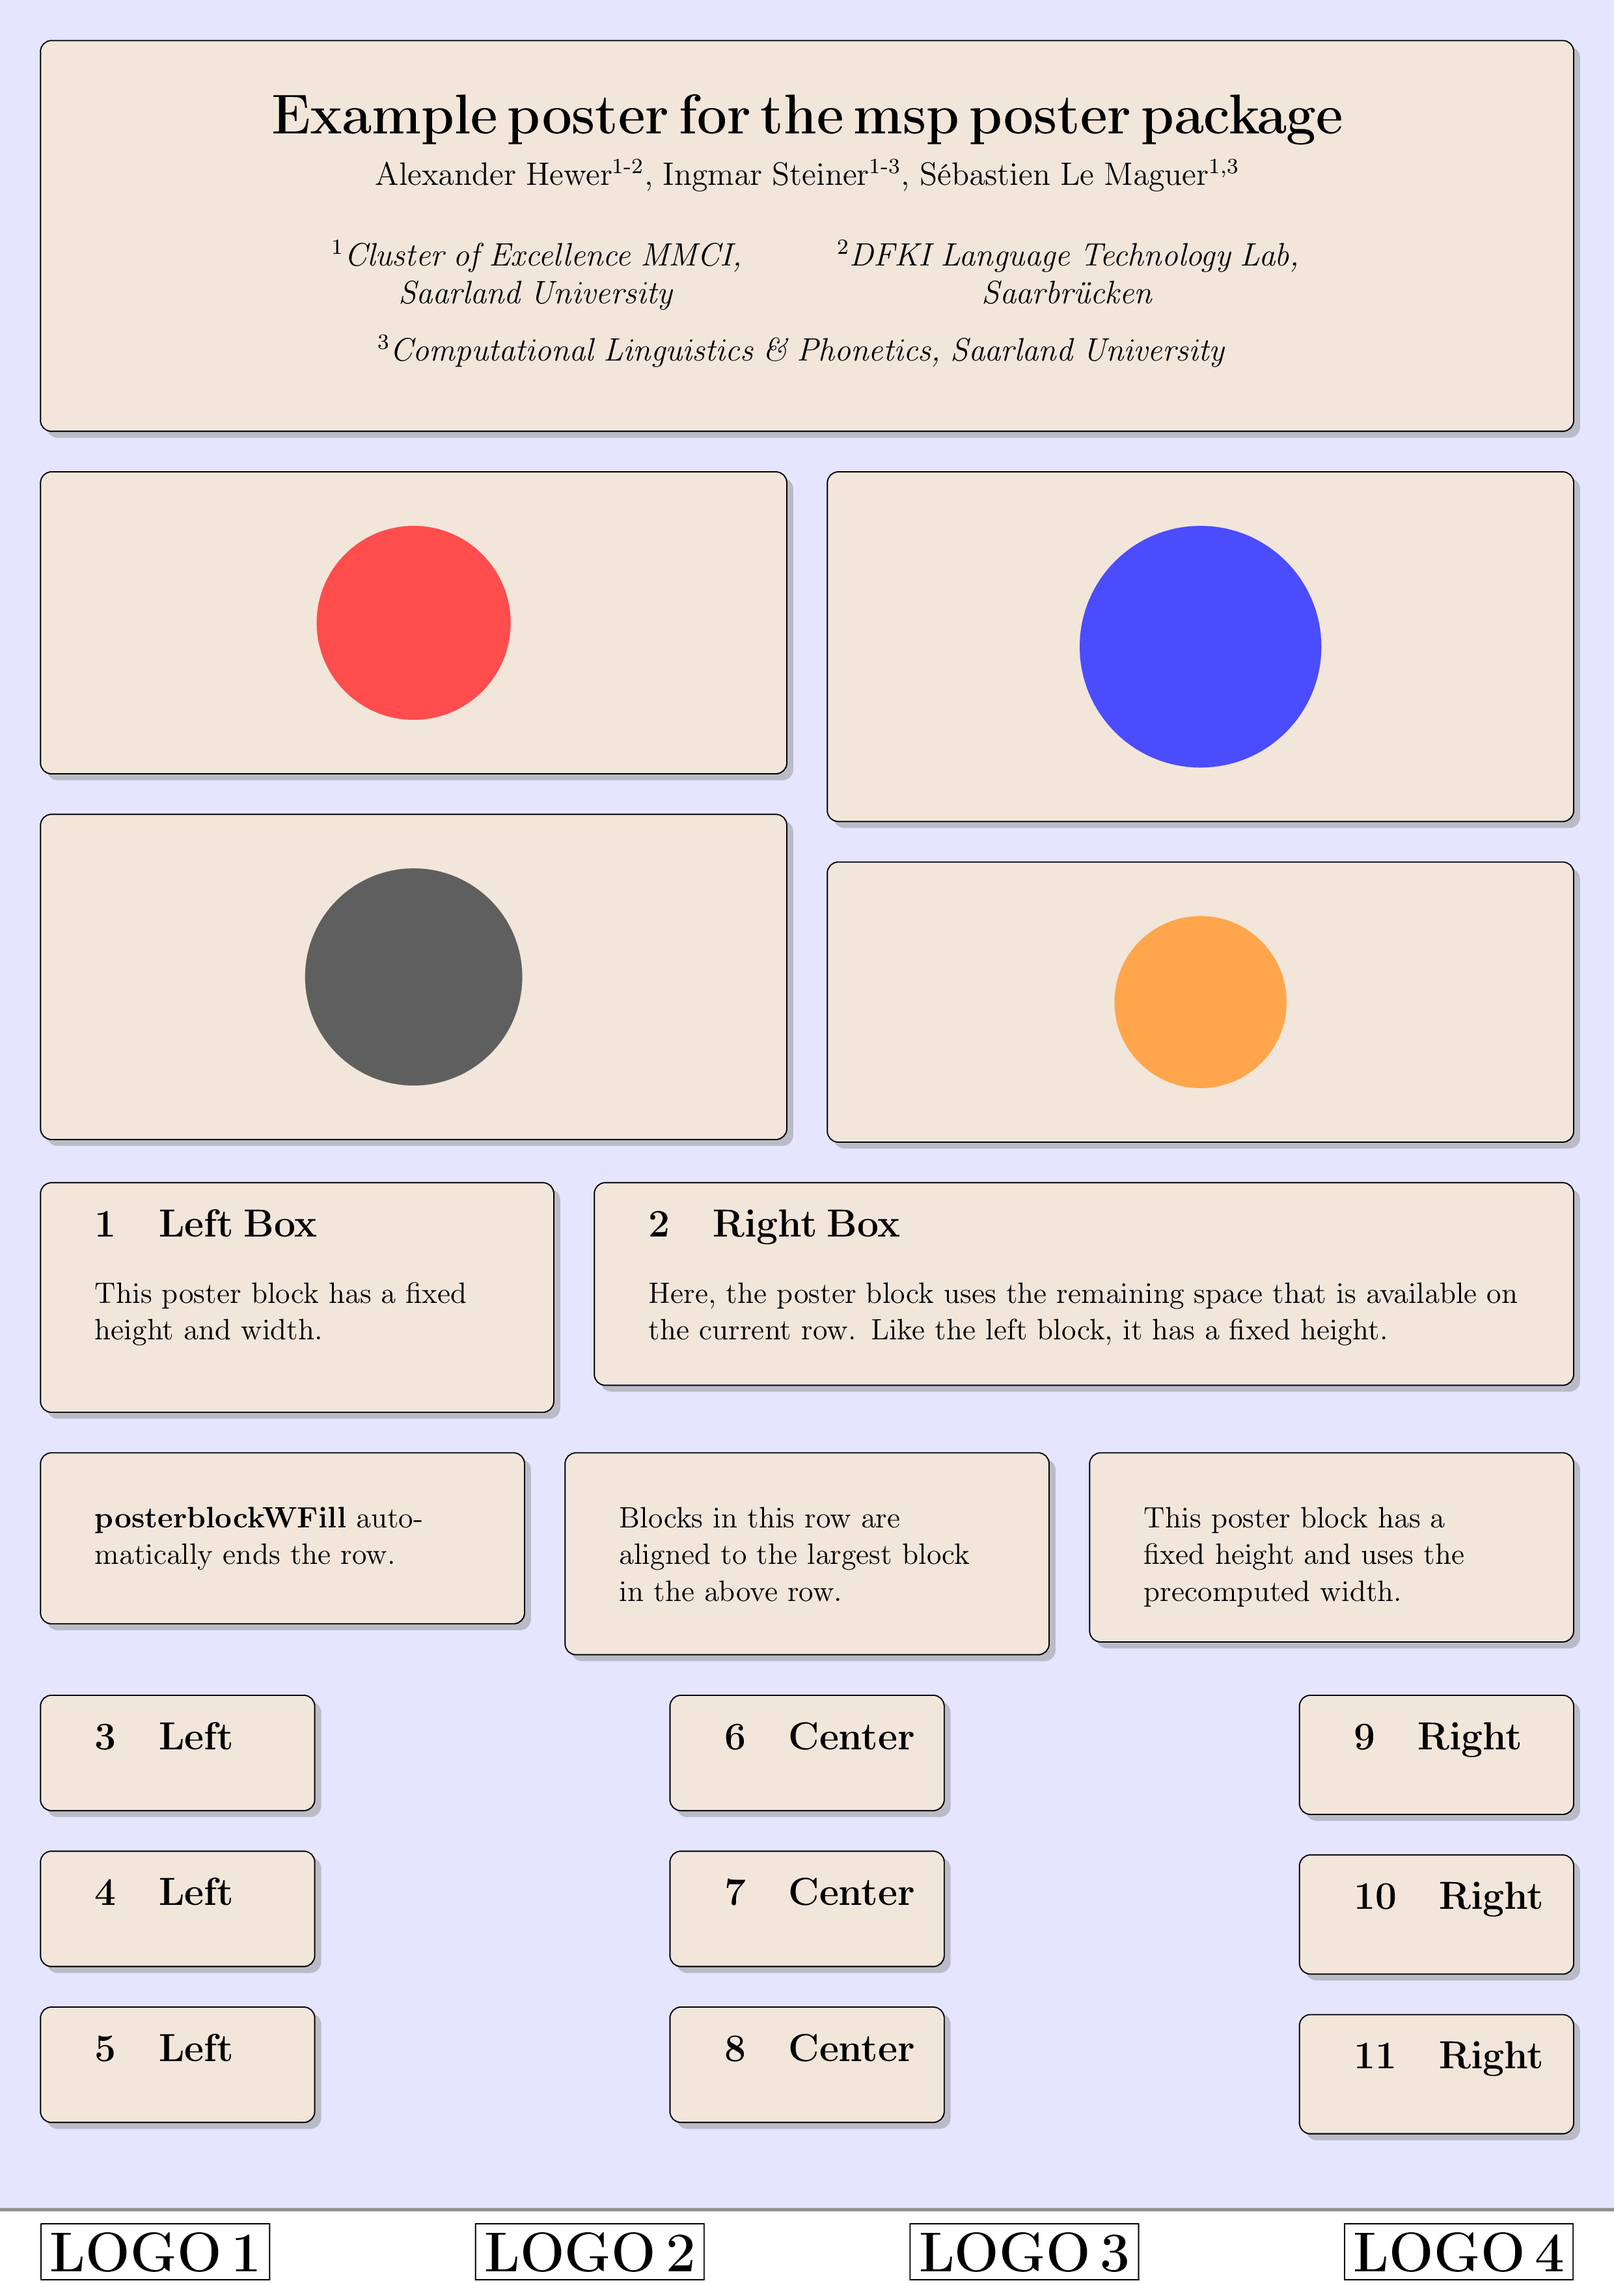
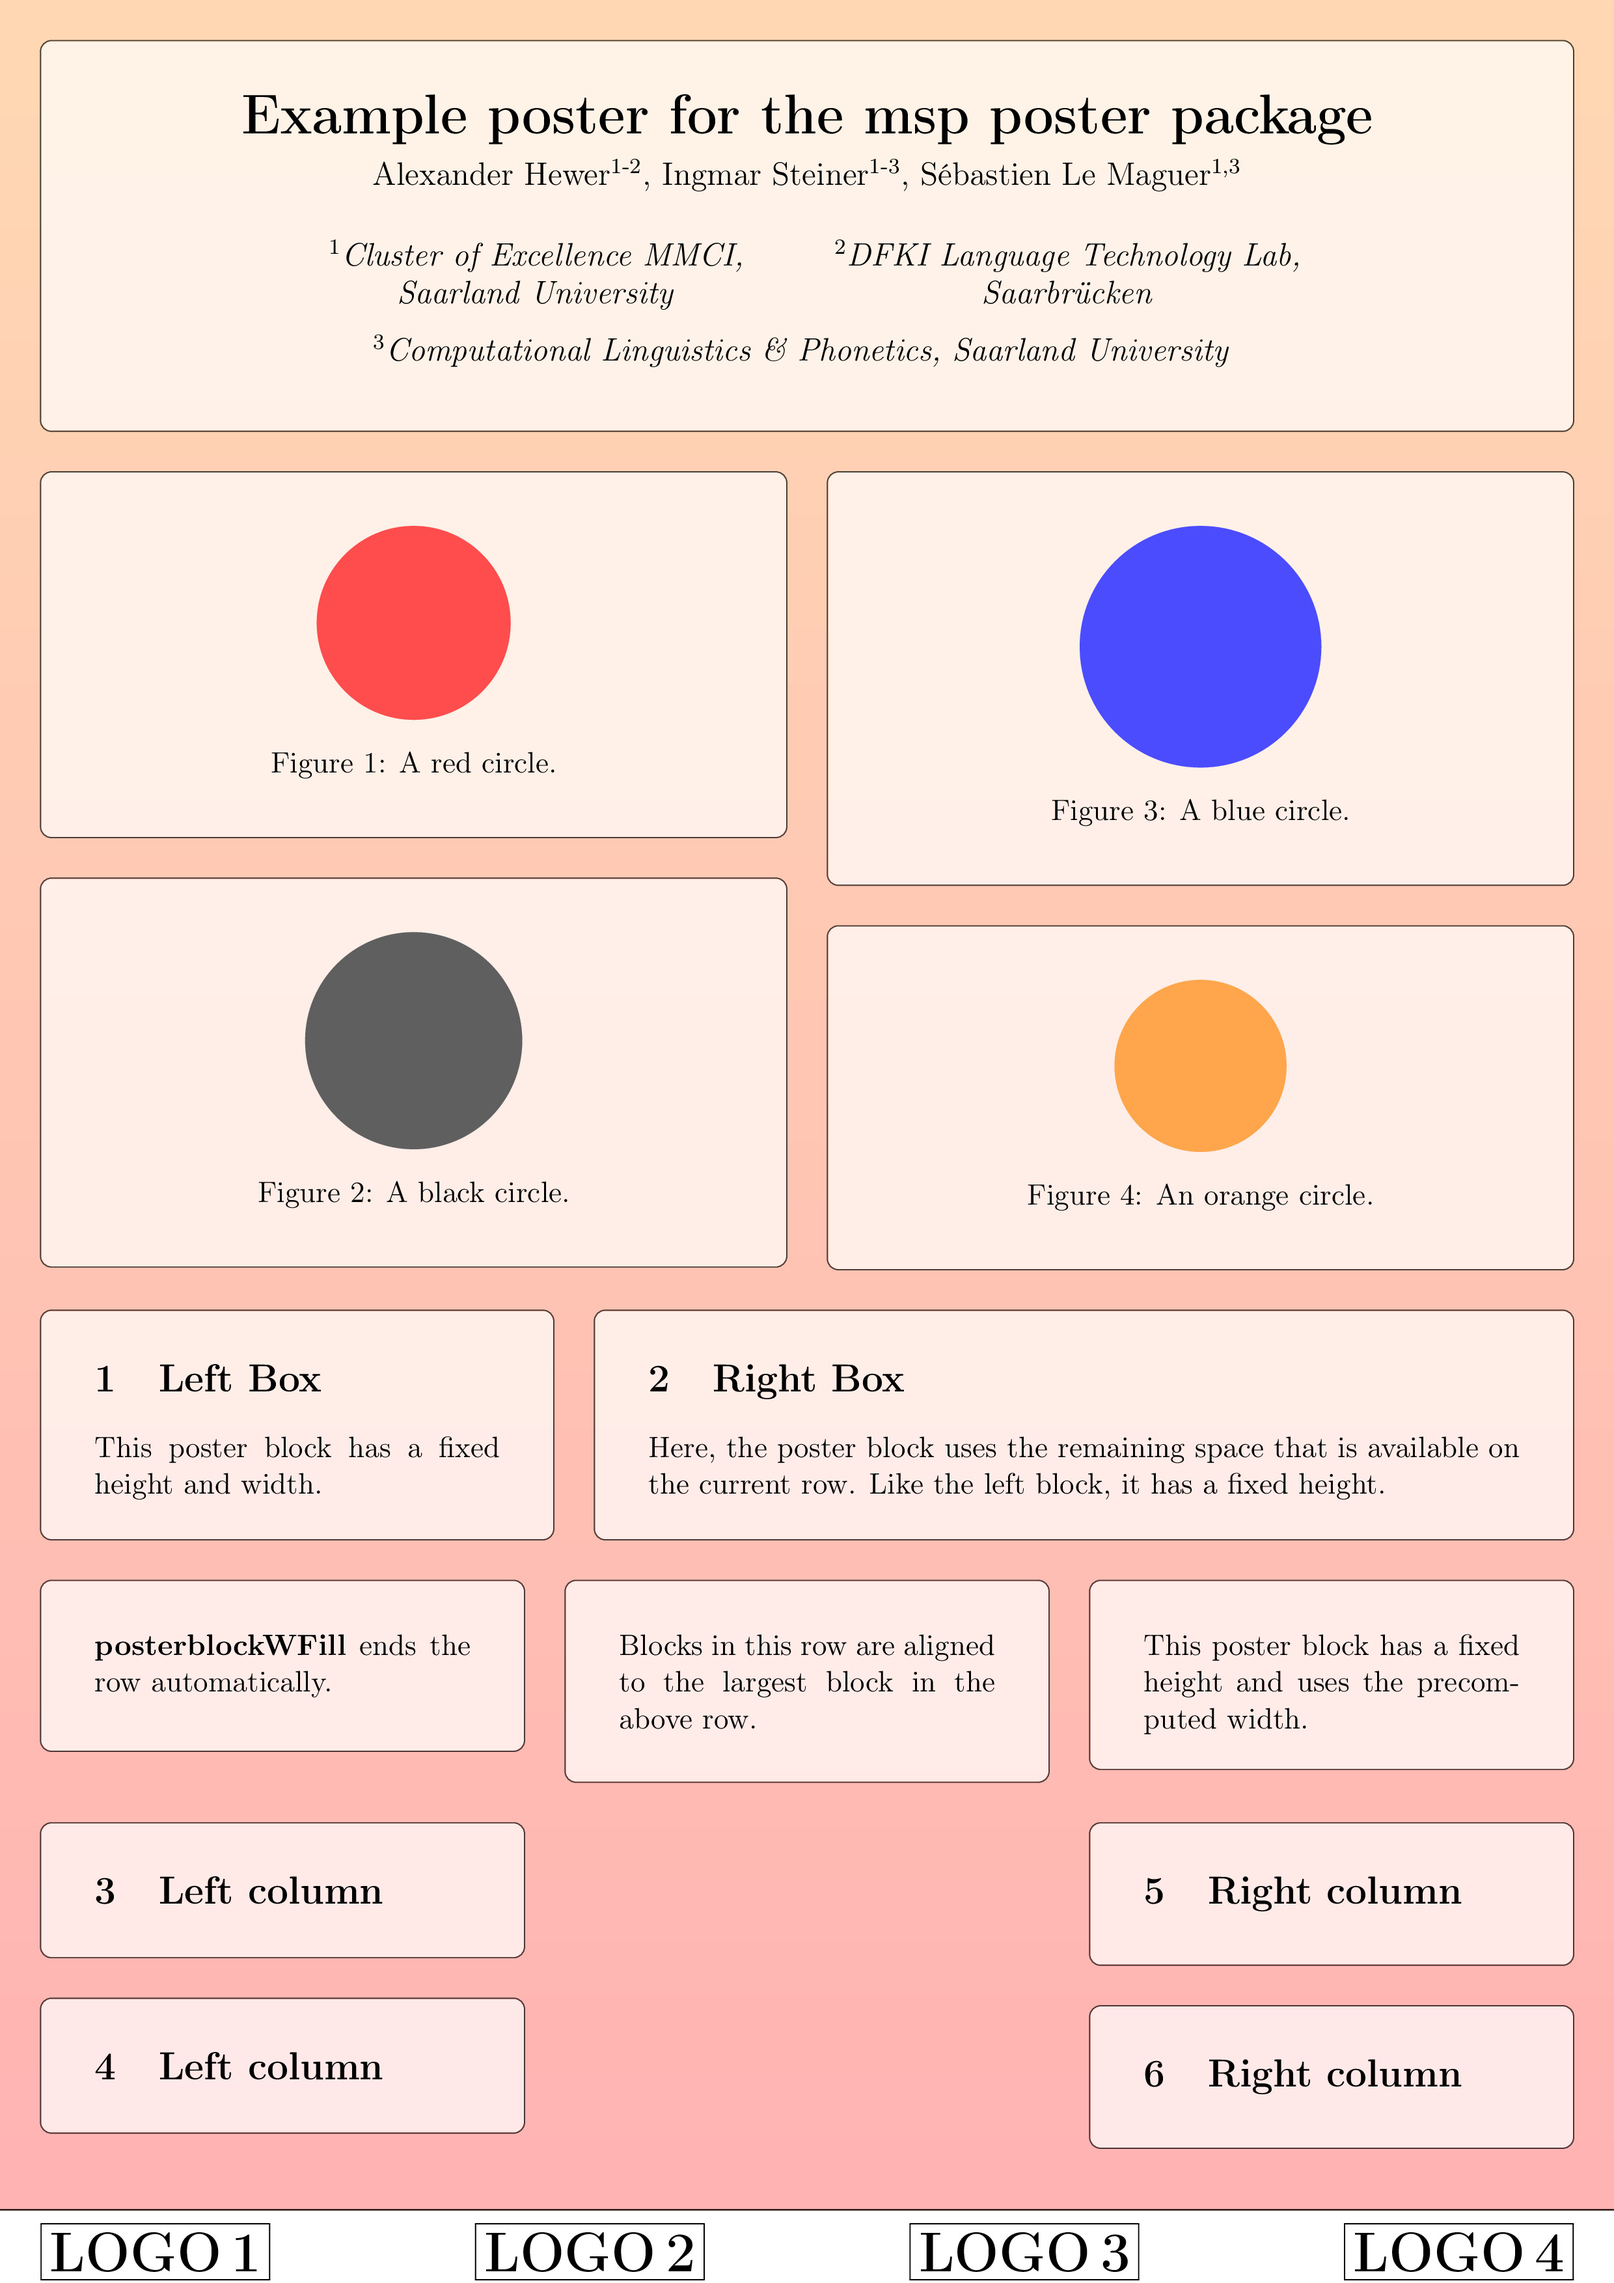
updated README.md and picture of example poster

diff --git a/README.md b/README.md
@@ -15,7 +15,7 @@ See [LICENSE.md] and [mspposter.sty] for more details.
 
 ## Using the package
 
-Copy the file 'mspposter.sty' to the same folder as your LaTeX file and add the line
+Copy the file 'mspposter.sty' and the directory 'themes' to the same folder as your LaTeX file and add the line
 
 ```latex
 \usepackage{mspposter}
@@ -202,43 +202,40 @@ Finally, the posterblock, posterblockH, posterblockW, posterblockWFill, and logo
 ### Poster themes
 
 Instead of adding your layout tweaks to your poster code, you can also place them inside an external __theme file__.
-To apply the theme to your poster, use the following command after you opened the poster environment:
+To apply the theme to your poster, use the optional parameter of the **poster** environment:
 
 ```latex
-\setpostertheme{T}
+\begin{poster}[T]
 ```
 
-where T is the path to the file containing the layout tweaks. **It is important that this command is
-inserted just after opening the poster environment**.
+where T is the path to the file containing the layout tweaks.
 
 Example file that represents the default theme applied when using [themes/default]:
 
 ```latex
 \tikzset{
   title/.style={
-    drop shadow,
-    draw=black,
-    opacity=1.0,
+    opacity=0.7,
     text opacity=1.0,
-    fill=brown!20,
-    rounded corners
+    fill=white,
+    thin,
+    rounded corners,
+    draw
   },
   posterblock/.style={
-    drop shadow,
-    draw=black,
-    opacity=1.0,
+    opacity=0.7,
     text opacity=1.0,
-    fill=brown!20,
-    rounded corners
+    fill=white,
+    thin,
+    rounded corners,
+    draw
   },
   logobar/.style={
-    % make the bar a little bit wider than the paper width,
-    % such that the left and right borders are not visible
     minimum width=\paperwidth + 10pt,
     text width=\textwidth,
+    draw,
+    thin,
     fill=white,
-    draw=black!50,
-    very thick,
     inner sep=5
   }
 }
@@ -247,7 +244,19 @@ Example file that represents the default theme applied when using [themes/defaul
 \setmargins{15}{15}
 \setblockpadding{20}
 \setblockspacing{15}
-\shadebackground{blue!10}{blue!10}
+\shadebackground{red!30}{orange!30}
+
+\makeatletter
+\renewcommand{\maketitle}{
+    \begin{posterblock}[title]
+        \begin{center}
+            {\huge{\bf{\@title}}} \\
+            \vspace{5pt}
+            {\large\@author}
+        \end{center}
+    \end{posterblock}
+}
+\makeatother
 ```
 
 ## Limitations
@@ -270,7 +279,6 @@ Example file that represents the default theme applied when using [themes/defaul
 Example poster file:
 
 ```latex
-
 \documentclass[a4paper, 11pt]{article}
 
 \usepackage{mspposter}
@@ -278,155 +286,139 @@ Example poster file:
 \usepackage[utf8]{inputenc}
 \usepackage[T1]{fontenc}
 
+\usepackage{caption}
 \usepackage{tabularx}
 \usepackage{multicol}
+
 \newcolumntype{C}[1]{>{\centering\arraybackslash}p{#1}}
 
 \title{Example poster for the msp poster package}
 \author{
-    Alexander Hewer\textsuperscript{1-2}, Ingmar Steiner\textsuperscript{1-3}, Sébastien Le Maguer\textsuperscript{1,3}                                       \\
-    \vspace{12pt}
-    {\def\arraystretch{1.5}
+  Alexander Hewer\textsuperscript{1-2},
+  Ingmar Steiner\textsuperscript{1-3},
+  Sébastien Le Maguer\textsuperscript{1,3}\\
+  \vspace{12pt}
+  {%
+    \def\arraystretch{1.5}
     \begin{tabular}{C{0.35\textwidth} C{0.35\textwidth}}
-      \textsuperscript{1}\textit{Cluster of Excellence MMCI, Saarland University} & \textsuperscript{2}\textit{DFKI Language Technology Lab, Saarbr\"{u}cken} \\
-      \multicolumn{2}{c}{\textsuperscript{3}\textit{Computational Linguistics \& Phonetics, Saarland University}}                                                  \\
+      \textsuperscript{1}\textit{Cluster of Excellence MMCI, Saarland University} &
+      \textsuperscript{2}\textit{DFKI Language Technology Lab, Saarbr\"{u}cken} \\
+      \multicolumn{2}{c}{\textsuperscript{3}%
+        \textit{Computational Linguistics \& Phonetics, Saarland University}} \\
     \end{tabular}
-    }
+  }
 }
-
-% reduce the vertical space generated by a section
-\let \oldsection \section
-\renewcommand{\section}{\vspace{-10pt}\oldsection}
 
 \begin{document}
 
-\begin{poster}
+\begin{poster}[themes/tholey]
 
-    % Set themes
-    \setpostertheme{themes/default}
+  \maketitle
 
-    \maketitle
+  \begin{postercolumns}[2]
 
-    \begin{postercolumns}[2]
+    \begin{posterblock}
+      \begin{center}
+        \begin{tikzpicture}
+          \node [fill=red!70, circle, text width=20pt] {};
+        \end{tikzpicture}
+        \captionof{figure}{A red circle.}
+      \end{center}
+    \end{posterblock}
 
-        \begin{posterblock}
-            \begin{center}
-                \begin{tikzpicture}
-                    \node [fill=red!70, circle, text width=20pt] {};
-                \end{tikzpicture}
-            \end{center}
-        \end{posterblock}
+    \begin{posterblock}
+      \begin{center}
+        \begin{tikzpicture}
+          \node [fill=black!70, circle, text width=30pt] {};
+        \end{tikzpicture}
+        \captionof{figure}{A black circle.}
+      \end{center}
+    \end{posterblock}
 
-        \begin{posterblock}
-            \begin{center}
-                \begin{tikzpicture}
-                    \node [fill=black!70, circle, text width=30pt] {};
-                \end{tikzpicture}
-            \end{center}
-        \end{posterblock}
+    \posternextcolumn
 
-        \posternextcolumn
+    \begin{posterblock}
+      \begin{center}
+        \begin{tikzpicture}
+          \node [fill=blue!70, circle, text width=40pt] {};
+        \end{tikzpicture}
+        \captionof{figure}{A blue circle.}
+      \end{center}
+    \end{posterblock}
 
-        \begin{posterblock}
-            \begin{center}
-                \begin{tikzpicture}
-                    \node [fill=blue!70, circle, text width=40pt] {};
-                \end{tikzpicture}
-            \end{center}
-        \end{posterblock}
+    \begin{posterblock}
+      \begin{center}
+        \begin{tikzpicture}
+          \node [fill=orange!70, circle, text width=10pt] {};
+        \end{tikzpicture}
+        \captionof{figure}{An orange circle.}
+      \end{center}
+    \end{posterblock}
 
-        \begin{posterblock}
-            \begin{center}
-                \begin{tikzpicture}
-                    \node [fill=orange!70, circle, text width=10pt] {};
-                \end{tikzpicture}
-            \end{center}
-        \end{posterblock}
+  \end{postercolumns}
 
-    \end{postercolumns}
+  \begin{posterrows}[3]
 
-    \begin{posterrows}[3]
+    \begin{posterblockW}{150}{45}
+      \section{Left Box}
+      This poster block has a fixed height and width.
+    \end{posterblockW}
 
-        \begin{posterblockW}{150}{45}
-            \section{Left Box}
-            This poster block has a fixed height and width.
-        \end{posterblockW}
+    \begin{posterblockWFill}{45}
+      \section{Right Box}
+      Here, the poster block uses the remaining space that is available on the current row.
+      Like the left block, it has a fixed height.
+    \end{posterblockWFill}
 
-        \begin{posterblockWFill}{35}
-            \section{Right Box}
-            Here, the poster block uses the remaining space that is available on the current row.
-            Like the left block, it has a fixed height.
-        \end{posterblockWFill}
+    \begin{posterblock}
+      {\bf posterblockWFill} ends the row automatically.
+    \end{posterblock}
 
-        \begin{posterblock}
-            {\bf posterblockWFill} automatically ends the row.
-        \end{posterblock}
+    \begin{posterblock}
+      Blocks in this row are aligned to the largest block in the above row.
+    \end{posterblock}
 
-        \begin{posterblock}
-            Blocks in this row are aligned to the largest block in the above row.
-        \end{posterblock}
+    \begin{posterblockH}{30}
+      This poster block has a fixed height and uses the precomputed width.
+    \end{posterblockH}
 
-        \begin{posterblockH}{30}
-            This poster block has a fixed height and uses the precomputed width.
-        \end{posterblockH}
+  \end{posterrows}
 
-    \end{posterrows}
+  \begin{postercolumns}[3]
+    \begin{posterblock}
+      \section{Left column}
+    \end{posterblock}
+    \begin{posterblock}
+      \section{Left column}
+    \end{posterblock}
 
-    \begin{postercolumns}[5]
-        \begin{posterblock}
-            \section{Left}
-        \end{posterblock}
-        \begin{posterblock}
-            \section{Left}
-        \end{posterblock}
-        \begin{posterblock}
-            \section{Left}
-        \end{posterblock}
+    \posternextcolumn
+    \posternextcolumn
 
-        \posternextcolumn
-        \posternextcolumn
+    \begin{posterblock}
+      \section{Right column}
+    \end{posterblock}
+    \begin{posterblock}
+      \section{Right column}
+    \end{posterblock}
 
-        \begin{posterblock}
-            \section{Center}
-        \end{posterblock}
-        \begin{posterblock}
-            \section{Center}
-        \end{posterblock}
-        \begin{posterblock}
-            \section{Center}
-        \end{posterblock}
+  \end{postercolumns}
 
-        \posternextcolumn
-        \posternextcolumn
-
-        \begin{posterblock}
-            \section{Right}
-        \end{posterblock}
-        \begin{posterblock}
-            \section{Right}
-        \end{posterblock}
-        \begin{posterblock}
-            \section{Right}
-        \end{posterblock}
-
-    \end{postercolumns}
-
-    \begin{logobar}[logobar]
-        \centering
-        \fbox{\huge \bfseries LOGO 1}
-        \hfill
-        \fbox{\huge \bfseries LOGO 2}
-        \hfill
-        \fbox{\huge \bfseries LOGO 3}
-        \hfill
-        \fbox{\huge \bfseries LOGO 4}
-    \end{logobar}
+  \begin{logobar}[logobar]
+    \centering
+    \fbox{\huge \bfseries LOGO 1}
+    \hfill
+    \fbox{\huge \bfseries LOGO 2}
+    \hfill
+    \fbox{\huge \bfseries LOGO 3}
+    \hfill
+    \fbox{\huge \bfseries LOGO 4}
+  \end{logobar}
 
 \end{poster}
 
 \end{document}
 ```
-
 
 Resulting poster:
 
